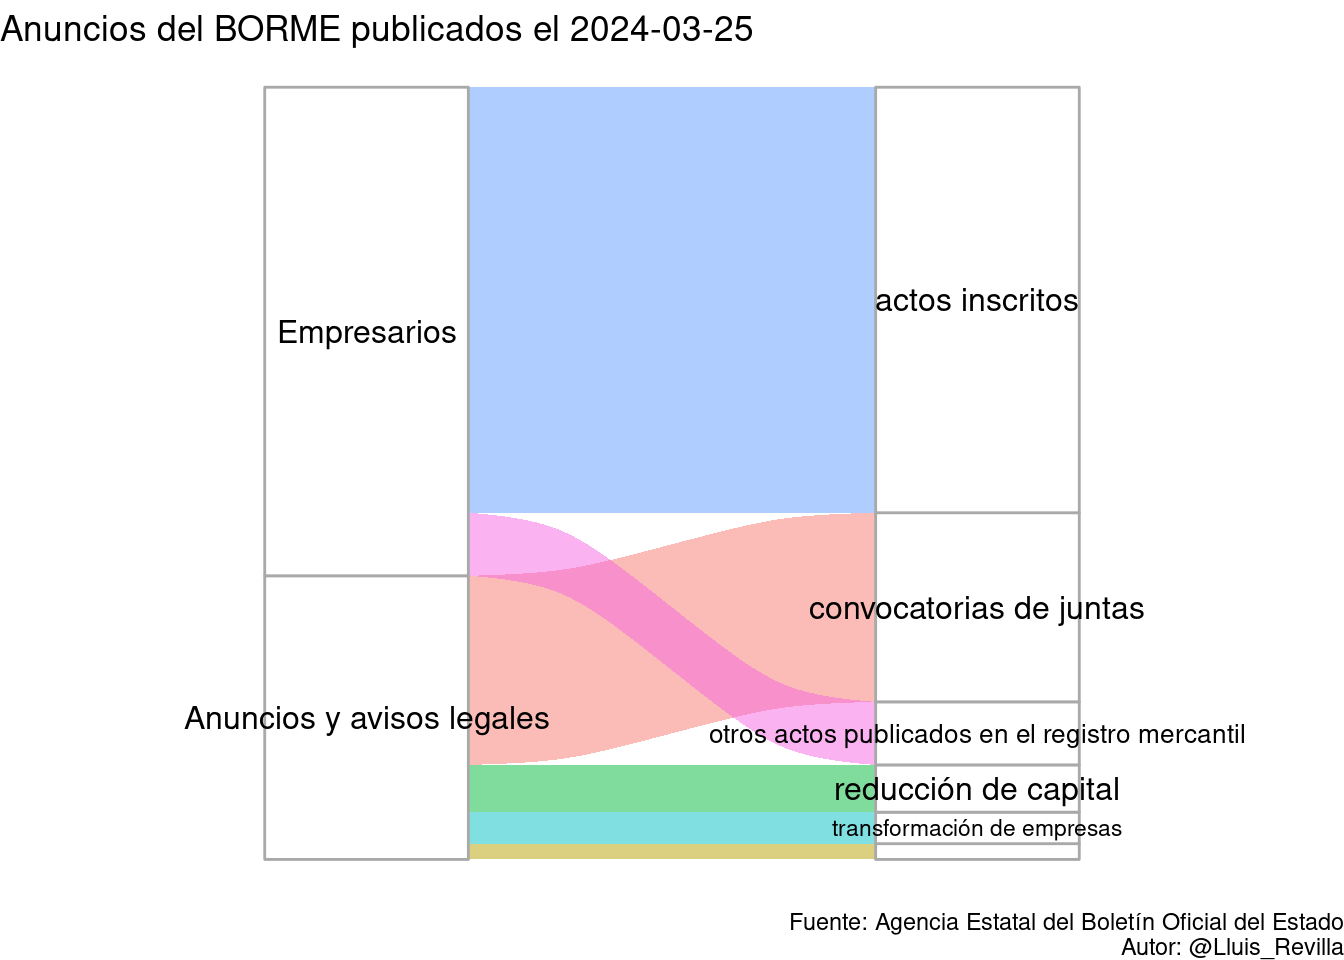
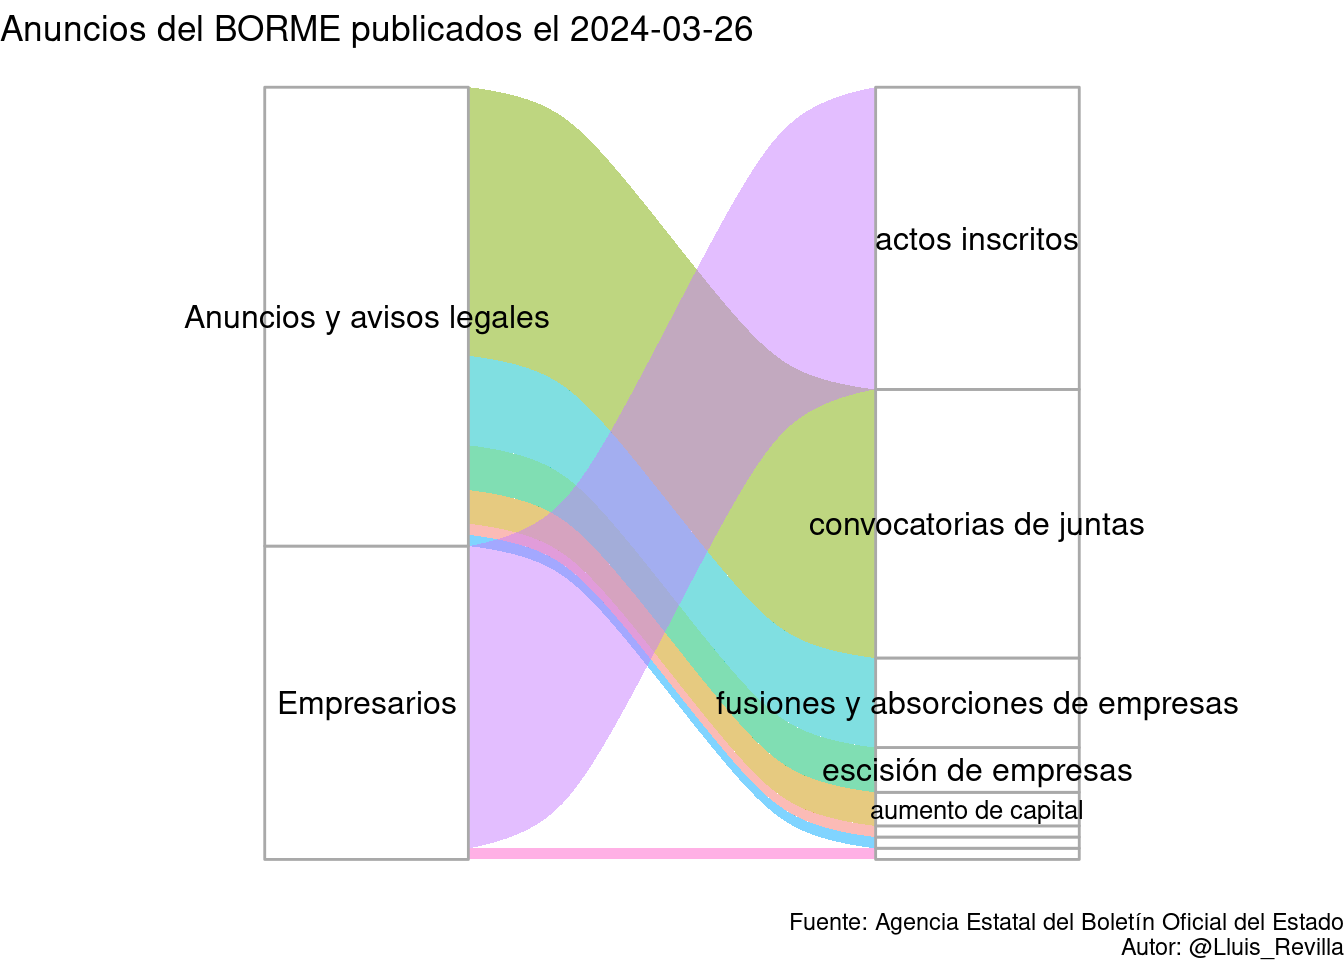
Update BORME

Changed region(s): [[0.125, 0.0938, 0.9375, 0.9062]]

diff --git a/docs/last_BORME.html b/docs/last_BORME.html
@@ -379,14 +379,14 @@ $(document).ready(function () {
 
 <div id="resumen-gráfico" class="section level1">
 <h1>Resumen gráfico</h1>
-<p>Esta página web contiene el último sumario del BORME publicado el 2024-03-25 con 49 publicaciones.</p>
+<p>Esta página web contiene el último sumario del BORME publicado el 2024-03-26 con 69 publicaciones.</p>
 <p><img src="last_BORME_files/figure-html/graphics-1.png" width="672" /></p>
 </div>
 <div id="tabla-de-publicaciones" class="section level1">
 <h1>Tabla de publicaciones</h1>
 <p>Aquí está la tabla completa con enlaces a las publicaciones:</p>
-<div class="datatables html-widget html-fill-item-overflow-hidden html-fill-item" id="htmlwidget-dd9c5d6872bfaf9efc4a" style="width:100%;height:auto;"></div>
-<script type="application/json" data-for="htmlwidget-dd9c5d6872bfaf9efc4a">{"x":{"filter":"top","vertical":false,"filterHTML":"<tr>\n  <td><\/td>\n  <td data-type=\"character\" style=\"vertical-align: top;\">\n    <div class=\"form-group has-feedback\" style=\"margin-bottom: auto;\">\n      <input type=\"search\" placeholder=\"All\" class=\"form-control\" style=\"width: 100%;\"/>\n      <span class=\"glyphicon glyphicon-remove-circle form-control-feedback\"><\/span>\n    <\/div>\n  <\/td>\n  <td data-type=\"character\" style=\"vertical-align: top;\">\n    <div class=\"form-group has-feedback\" style=\"margin-bottom: auto;\">\n      <input type=\"search\" placeholder=\"All\" class=\"form-control\" style=\"width: 100%;\"/>\n      <span class=\"glyphicon glyphicon-remove-circle form-control-feedback\"><\/span>\n    <\/div>\n  <\/td>\n  <td data-type=\"character\" style=\"vertical-align: top;\">\n    <div class=\"form-group has-feedback\" style=\"margin-bottom: auto;\">\n      <input type=\"search\" placeholder=\"All\" class=\"form-control\" style=\"width: 100%;\" disabled=\"\"/>\n      <span class=\"glyphicon glyphicon-remove-circle form-control-feedback\"><\/span>\n    <\/div>\n  <\/td>\n  <td data-type=\"character\" style=\"vertical-align: top;\">\n    <div class=\"form-group has-feedback\" style=\"margin-bottom: auto;\">\n      <input type=\"search\" placeholder=\"All\" class=\"form-control\" style=\"width: 100%;\"/>\n      <span class=\"glyphicon glyphicon-remove-circle form-control-feedback\"><\/span>\n    <\/div>\n  <\/td>\n<\/tr>","data":[["1","2","3","4","5","6","7","8","9","10","11","12","13","14","15","16","17","18","19","20","21","22","23","24","25","26","27","28","29","30","31","32","33","34","35","36","37","38","39","40","41","42","43","44","45","46","47","48","49"],["SECCIÓN PRIMERA. Empresarios","SECCIÓN PRIMERA. Empresarios","SECCIÓN PRIMERA. Empresarios","SECCIÓN PRIMERA. Empresarios","SECCIÓN PRIMERA. Empresarios","SECCIÓN PRIMERA. Empresarios","SECCIÓN PRIMERA. Empresarios","SECCIÓN PRIMERA. Empresarios","SECCIÓN PRIMERA. Empresarios","SECCIÓN PRIMERA. Empresarios","SECCIÓN PRIMERA. Empresarios","SECCIÓN PRIMERA. Empresarios","SECCIÓN PRIMERA. Empresarios","SECCIÓN PRIMERA. Empresarios","SECCIÓN PRIMERA. Empresarios","SECCIÓN PRIMERA. Empresarios","SECCIÓN PRIMERA. Empresarios","SECCIÓN PRIMERA. Empresarios","SECCIÓN PRIMERA. Empresarios","SECCIÓN PRIMERA. Empresarios","SECCIÓN PRIMERA. Empresarios","SECCIÓN PRIMERA. Empresarios","SECCIÓN PRIMERA. Empresarios","SECCIÓN PRIMERA. Empresarios","SECCIÓN PRIMERA. Empresarios","SECCIÓN PRIMERA. Empresarios","SECCIÓN PRIMERA. Empresarios","SECCIÓN PRIMERA. Empresarios","SECCIÓN PRIMERA. Empresarios","SECCIÓN PRIMERA. Empresarios","SECCIÓN PRIMERA. Empresarios","SECCIÓN SEGUNDA. Anuncios y avisos legales","SECCIÓN SEGUNDA. Anuncios y avisos legales","SECCIÓN SEGUNDA. Anuncios y avisos legales","SECCIÓN SEGUNDA. Anuncios y avisos legales","SECCIÓN SEGUNDA. Anuncios y avisos legales","SECCIÓN SEGUNDA. Anuncios y avisos legales","SECCIÓN SEGUNDA. Anuncios y avisos legales","SECCIÓN SEGUNDA. Anuncios y avisos legales","SECCIÓN SEGUNDA. Anuncios y avisos legales","SECCIÓN SEGUNDA. Anuncios y avisos legales","SECCIÓN SEGUNDA. Anuncios y avisos legales","SECCIÓN SEGUNDA. Anuncios y avisos legales","SECCIÓN SEGUNDA. Anuncios y avisos legales","SECCIÓN SEGUNDA. Anuncios y avisos legales","SECCIÓN SEGUNDA. Anuncios y avisos legales","SECCIÓN SEGUNDA. Anuncios y avisos legales","SECCIÓN SEGUNDA. Anuncios y avisos legales","SECCIÓN SEGUNDA. Anuncios y avisos legales"],["Actos inscritos","Actos inscritos","Actos inscritos","Actos inscritos","Actos inscritos","Actos inscritos","Actos inscritos","Actos inscritos","Actos inscritos","Actos inscritos","Actos inscritos","Actos inscritos","Actos inscritos","Actos inscritos","Actos inscritos","Actos inscritos","Actos inscritos","Actos inscritos","Actos inscritos","Actos inscritos","Actos inscritos","Actos inscritos","Actos inscritos","Actos inscritos","Actos inscritos","Actos inscritos","Actos inscritos","Otros actos publicados en el Registro Mercantil","Otros actos publicados en el Registro Mercantil","Otros actos publicados en el Registro Mercantil","Otros actos publicados en el Registro Mercantil","CONVOCATORIAS DE JUNTAS","CONVOCATORIAS DE JUNTAS","CONVOCATORIAS DE JUNTAS","CONVOCATORIAS DE JUNTAS","CONVOCATORIAS DE JUNTAS","CONVOCATORIAS DE JUNTAS","CONVOCATORIAS DE JUNTAS","CONVOCATORIAS DE JUNTAS","CONVOCATORIAS DE JUNTAS","CONVOCATORIAS DE JUNTAS","CONVOCATORIAS DE JUNTAS","CONVOCATORIAS DE JUNTAS","ESCISIÓN DE EMPRESAS","TRANSFORMACIÓN DE EMPRESAS","TRANSFORMACIÓN DE EMPRESAS","REDUCCIÓN DE CAPITAL","REDUCCIÓN DE CAPITAL","REDUCCIÓN DE CAPITAL"],[null,null,null,null,null,null,null,null,null,null,null,null,null,null,null,null,null,null,null,null,null,null,null,null,null,null,null,null,null,null,null,null,null,null,null,null,null,null,null,null,null,null,null,null,null,null,null,null,null],["BORME-A-2024-60-02","BORME-A-2024-60-03","BORME-A-2024-60-04","BORME-A-2024-60-06","BORME-A-2024-60-07","BORME-A-2024-60-08","BORME-A-2024-60-11","BORME-A-2024-60-12","BORME-A-2024-60-13","BORME-A-2024-60-15","BORME-A-2024-60-17","BORME-A-2024-60-18","BORME-A-2024-60-24","BORME-A-2024-60-25","BORME-A-2024-60-28","BORME-A-2024-60-29","BORME-A-2024-60-33","BORME-A-2024-60-34","BORME-A-2024-60-35","BORME-A-2024-60-36","BORME-A-2024-60-41","BORME-A-2024-60-43","BORME-A-2024-60-46","BORME-A-2024-60-47","BORME-A-2024-60-49","BORME-A-2024-60-52","BORME-A-2024-60-99","BORME-B-2024-60-08","BORME-B-2024-60-28","BORME-B-2024-60-41","BORME-B-2024-60-50","BORME-C-2024-976","BORME-C-2024-977","BORME-C-2024-978","BORME-C-2024-979","BORME-C-2024-980","BORME-C-2024-981","BORME-C-2024-982","BORME-C-2024-983","BORME-C-2024-984","BORME-C-2024-985","BORME-C-2024-986","BORME-C-2024-987","BORME-C-2024-988","BORME-C-2024-989","BORME-C-2024-990","BORME-C-2024-991","BORME-C-2024-992","BORME-C-2024-993"]],"container":"<table class=\"display\">\n  <thead>\n    <tr>\n      <th> <\/th>\n      <th>Sección<\/th>\n      <th>Emisor<\/th>\n      <th>Texto<\/th>\n      <th>Link<\/th>\n    <\/tr>\n  <\/thead>\n<\/table>","options":{"pageLength":10,"autoWidth":true,"columnDefs":[{"orderable":false,"targets":0},{"name":" ","targets":0},{"name":"Sección","targets":1},{"name":"Emisor","targets":2},{"name":"Texto","targets":3},{"name":"Link","targets":4}],"order":[],"orderClasses":false,"orderCellsTop":true}},"evals":[],"jsHooks":[]}</script>
+<div class="datatables html-widget html-fill-item-overflow-hidden html-fill-item" id="htmlwidget-18199207cada9e5e156c" style="width:100%;height:auto;"></div>
+<script type="application/json" data-for="htmlwidget-18199207cada9e5e156c">{"x":{"filter":"top","vertical":false,"filterHTML":"<tr>\n  <td><\/td>\n  <td data-type=\"character\" style=\"vertical-align: top;\">\n    <div class=\"form-group has-feedback\" style=\"margin-bottom: auto;\">\n      <input type=\"search\" placeholder=\"All\" class=\"form-control\" style=\"width: 100%;\"/>\n      <span class=\"glyphicon glyphicon-remove-circle form-control-feedback\"><\/span>\n    <\/div>\n  <\/td>\n  <td data-type=\"character\" style=\"vertical-align: top;\">\n    <div class=\"form-group has-feedback\" style=\"margin-bottom: auto;\">\n      <input type=\"search\" placeholder=\"All\" class=\"form-control\" style=\"width: 100%;\"/>\n      <span class=\"glyphicon glyphicon-remove-circle form-control-feedback\"><\/span>\n    <\/div>\n  <\/td>\n  <td data-type=\"character\" style=\"vertical-align: top;\">\n    <div class=\"form-group has-feedback\" style=\"margin-bottom: auto;\">\n      <input type=\"search\" placeholder=\"All\" class=\"form-control\" style=\"width: 100%;\" disabled=\"\"/>\n      <span class=\"glyphicon glyphicon-remove-circle form-control-feedback\"><\/span>\n    <\/div>\n  <\/td>\n  <td data-type=\"character\" style=\"vertical-align: top;\">\n    <div class=\"form-group has-feedback\" style=\"margin-bottom: auto;\">\n      <input type=\"search\" placeholder=\"All\" class=\"form-control\" style=\"width: 100%;\"/>\n      <span class=\"glyphicon glyphicon-remove-circle form-control-feedback\"><\/span>\n    <\/div>\n  <\/td>\n<\/tr>","data":[["1","2","3","4","5","6","7","8","9","10","11","12","13","14","15","16","17","18","19","20","21","22","23","24","25","26","27","28","29","30","31","32","33","34","35","36","37","38","39","40","41","42","43","44","45","46","47","48","49","50","51","52","53","54","55","56","57","58","59","60","61","62","63","64","65","66","67","68","69"],["SECCIÓN PRIMERA. Empresarios","SECCIÓN PRIMERA. Empresarios","SECCIÓN PRIMERA. Empresarios","SECCIÓN PRIMERA. Empresarios","SECCIÓN PRIMERA. Empresarios","SECCIÓN PRIMERA. Empresarios","SECCIÓN PRIMERA. Empresarios","SECCIÓN PRIMERA. Empresarios","SECCIÓN PRIMERA. Empresarios","SECCIÓN PRIMERA. Empresarios","SECCIÓN PRIMERA. Empresarios","SECCIÓN PRIMERA. Empresarios","SECCIÓN PRIMERA. Empresarios","SECCIÓN PRIMERA. Empresarios","SECCIÓN PRIMERA. Empresarios","SECCIÓN PRIMERA. Empresarios","SECCIÓN PRIMERA. Empresarios","SECCIÓN PRIMERA. Empresarios","SECCIÓN PRIMERA. Empresarios","SECCIÓN PRIMERA. Empresarios","SECCIÓN PRIMERA. Empresarios","SECCIÓN PRIMERA. Empresarios","SECCIÓN PRIMERA. Empresarios","SECCIÓN PRIMERA. Empresarios","SECCIÓN PRIMERA. Empresarios","SECCIÓN PRIMERA. Empresarios","SECCIÓN PRIMERA. Empresarios","SECCIÓN PRIMERA. Empresarios","SECCIÓN SEGUNDA. Anuncios y avisos legales","SECCIÓN SEGUNDA. Anuncios y avisos legales","SECCIÓN SEGUNDA. Anuncios y avisos legales","SECCIÓN SEGUNDA. Anuncios y avisos legales","SECCIÓN SEGUNDA. Anuncios y avisos legales","SECCIÓN SEGUNDA. Anuncios y avisos legales","SECCIÓN SEGUNDA. Anuncios y avisos legales","SECCIÓN SEGUNDA. Anuncios y avisos legales","SECCIÓN SEGUNDA. Anuncios y avisos legales","SECCIÓN SEGUNDA. Anuncios y avisos legales","SECCIÓN SEGUNDA. Anuncios y avisos legales","SECCIÓN SEGUNDA. Anuncios y avisos legales","SECCIÓN SEGUNDA. Anuncios y avisos legales","SECCIÓN SEGUNDA. Anuncios y avisos legales","SECCIÓN SEGUNDA. Anuncios y avisos legales","SECCIÓN SEGUNDA. Anuncios y avisos legales","SECCIÓN SEGUNDA. Anuncios y avisos legales","SECCIÓN SEGUNDA. Anuncios y avisos legales","SECCIÓN SEGUNDA. Anuncios y avisos legales","SECCIÓN SEGUNDA. Anuncios y avisos legales","SECCIÓN SEGUNDA. Anuncios y avisos legales","SECCIÓN SEGUNDA. Anuncios y avisos legales","SECCIÓN SEGUNDA. Anuncios y avisos legales","SECCIÓN SEGUNDA. Anuncios y avisos legales","SECCIÓN SEGUNDA. Anuncios y avisos legales","SECCIÓN SEGUNDA. Anuncios y avisos legales","SECCIÓN SEGUNDA. Anuncios y avisos legales","SECCIÓN SEGUNDA. Anuncios y avisos legales","SECCIÓN SEGUNDA. Anuncios y avisos legales","SECCIÓN SEGUNDA. Anuncios y avisos legales","SECCIÓN SEGUNDA. Anuncios y avisos legales","SECCIÓN SEGUNDA. Anuncios y avisos legales","SECCIÓN SEGUNDA. Anuncios y avisos legales","SECCIÓN SEGUNDA. Anuncios y avisos legales","SECCIÓN SEGUNDA. Anuncios y avisos legales","SECCIÓN SEGUNDA. Anuncios y avisos legales","SECCIÓN SEGUNDA. Anuncios y avisos legales","SECCIÓN SEGUNDA. Anuncios y avisos legales","SECCIÓN SEGUNDA. Anuncios y avisos legales","SECCIÓN SEGUNDA. Anuncios y avisos legales","SECCIÓN SEGUNDA. Anuncios y avisos legales"],["Actos inscritos","Actos inscritos","Actos inscritos","Actos inscritos","Actos inscritos","Actos inscritos","Actos inscritos","Actos inscritos","Actos inscritos","Actos inscritos","Actos inscritos","Actos inscritos","Actos inscritos","Actos inscritos","Actos inscritos","Actos inscritos","Actos inscritos","Actos inscritos","Actos inscritos","Actos inscritos","Actos inscritos","Actos inscritos","Actos inscritos","Actos inscritos","Actos inscritos","Actos inscritos","Actos inscritos","Otros actos publicados en el Registro Mercantil","ANUNCIOS DEL REGISTRO MERCANTIL CENTRAL","CONVOCATORIAS DE JUNTAS","CONVOCATORIAS DE JUNTAS","CONVOCATORIAS DE JUNTAS","CONVOCATORIAS DE JUNTAS","CONVOCATORIAS DE JUNTAS","CONVOCATORIAS DE JUNTAS","CONVOCATORIAS DE JUNTAS","CONVOCATORIAS DE JUNTAS","CONVOCATORIAS DE JUNTAS","CONVOCATORIAS DE JUNTAS","CONVOCATORIAS DE JUNTAS","CONVOCATORIAS DE JUNTAS","CONVOCATORIAS DE JUNTAS","CONVOCATORIAS DE JUNTAS","CONVOCATORIAS DE JUNTAS","CONVOCATORIAS DE JUNTAS","CONVOCATORIAS DE JUNTAS","CONVOCATORIAS DE JUNTAS","CONVOCATORIAS DE JUNTAS","CONVOCATORIAS DE JUNTAS","CONVOCATORIAS DE JUNTAS","CONVOCATORIAS DE JUNTAS","CONVOCATORIAS DE JUNTAS","CONVOCATORIAS DE JUNTAS","FUSIONES Y ABSORCIONES DE EMPRESAS","FUSIONES Y ABSORCIONES DE EMPRESAS","FUSIONES Y ABSORCIONES DE EMPRESAS","FUSIONES Y ABSORCIONES DE EMPRESAS","FUSIONES Y ABSORCIONES DE EMPRESAS","FUSIONES Y ABSORCIONES DE EMPRESAS","FUSIONES Y ABSORCIONES DE EMPRESAS","FUSIONES Y ABSORCIONES DE EMPRESAS","ESCISIÓN DE EMPRESAS","ESCISIÓN DE EMPRESAS","ESCISIÓN DE EMPRESAS","ESCISIÓN DE EMPRESAS","AUMENTO DE CAPITAL","AUMENTO DE CAPITAL","AUMENTO DE CAPITAL","REDUCCIÓN DE CAPITAL"],[null,null,null,null,null,null,null,null,null,null,null,null,null,null,null,null,null,null,null,null,null,null,null,null,null,null,null,null,null,null,null,null,null,null,null,null,null,null,null,null,null,null,null,null,null,null,null,null,null,null,null,null,null,null,null,null,null,null,null,null,null,null,null,null,null,null,null,null,null],["BORME-A-2024-61-02","BORME-A-2024-61-04","BORME-A-2024-61-07","BORME-A-2024-61-08","BORME-A-2024-61-11","BORME-A-2024-61-13","BORME-A-2024-61-14","BORME-A-2024-61-15","BORME-A-2024-61-17","BORME-A-2024-61-18","BORME-A-2024-61-22","BORME-A-2024-61-23","BORME-A-2024-61-24","BORME-A-2024-61-25","BORME-A-2024-61-26","BORME-A-2024-61-27","BORME-A-2024-61-28","BORME-A-2024-61-29","BORME-A-2024-61-32","BORME-A-2024-61-35","BORME-A-2024-61-36","BORME-A-2024-61-38","BORME-A-2024-61-43","BORME-A-2024-61-45","BORME-A-2024-61-47","BORME-A-2024-61-48","BORME-A-2024-61-99","BORME-B-2024-61-08","BORME-C-2024-994","BORME-C-2024-995","BORME-C-2024-996","BORME-C-2024-997","BORME-C-2024-998","BORME-C-2024-999","BORME-C-2024-1000","BORME-C-2024-1001","BORME-C-2024-1002","BORME-C-2024-1003","BORME-C-2024-1004","BORME-C-2024-1005","BORME-C-2024-1006","BORME-C-2024-1007","BORME-C-2024-1008","BORME-C-2024-1009","BORME-C-2024-1010","BORME-C-2024-1011","BORME-C-2024-1012","BORME-C-2024-1013","BORME-C-2024-1014","BORME-C-2024-1015","BORME-C-2024-1016","BORME-C-2024-1017","BORME-C-2024-1018","BORME-C-2024-1019","BORME-C-2024-1020","BORME-C-2024-1021","BORME-C-2024-1022","BORME-C-2024-1023","BORME-C-2024-1024","BORME-C-2024-1025","BORME-C-2024-1026","BORME-C-2024-1027","BORME-C-2024-1028","BORME-C-2024-1029","BORME-C-2024-1030","BORME-C-2024-1031","BORME-C-2024-1032","BORME-C-2024-1033","BORME-C-2024-1034"]],"container":"<table class=\"display\">\n  <thead>\n    <tr>\n      <th> <\/th>\n      <th>Sección<\/th>\n      <th>Emisor<\/th>\n      <th>Texto<\/th>\n      <th>Link<\/th>\n    <\/tr>\n  <\/thead>\n<\/table>","options":{"pageLength":10,"autoWidth":true,"columnDefs":[{"orderable":false,"targets":0},{"name":" ","targets":0},{"name":"Sección","targets":1},{"name":"Emisor","targets":2},{"name":"Texto","targets":3},{"name":"Link","targets":4}],"order":[],"orderClasses":false,"orderCellsTop":true}},"evals":[],"jsHooks":[]}</script>
 </div>
 
 
